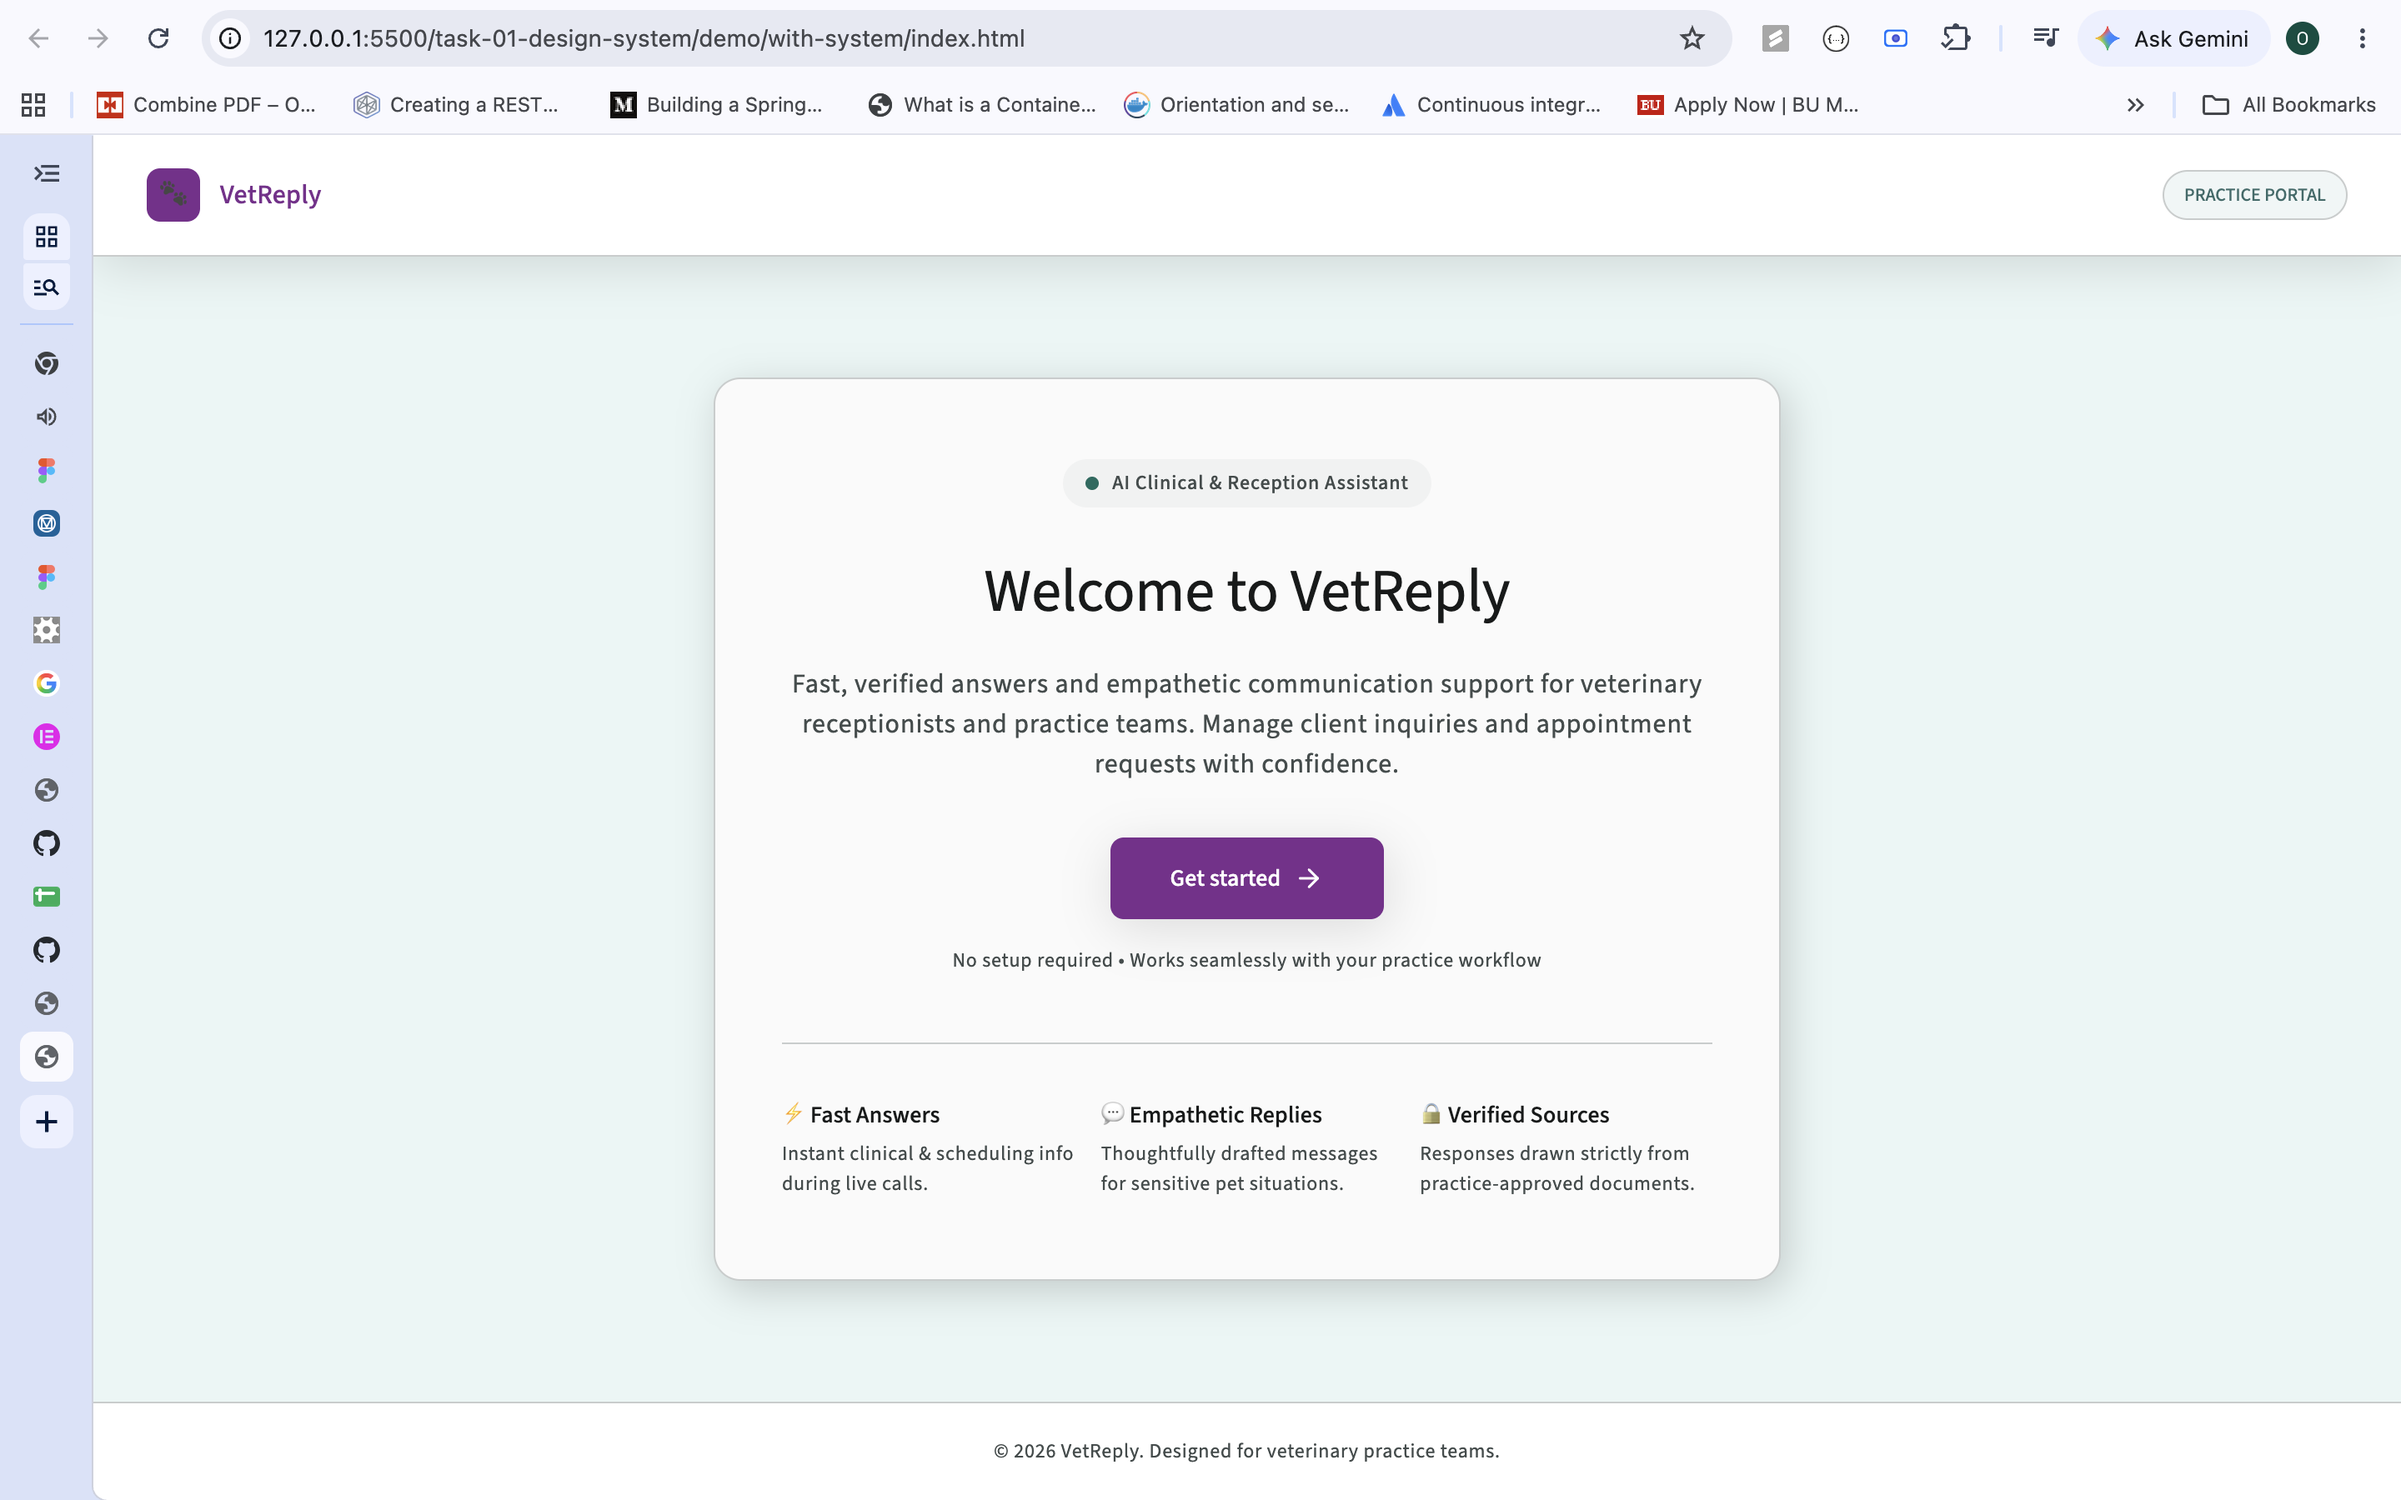
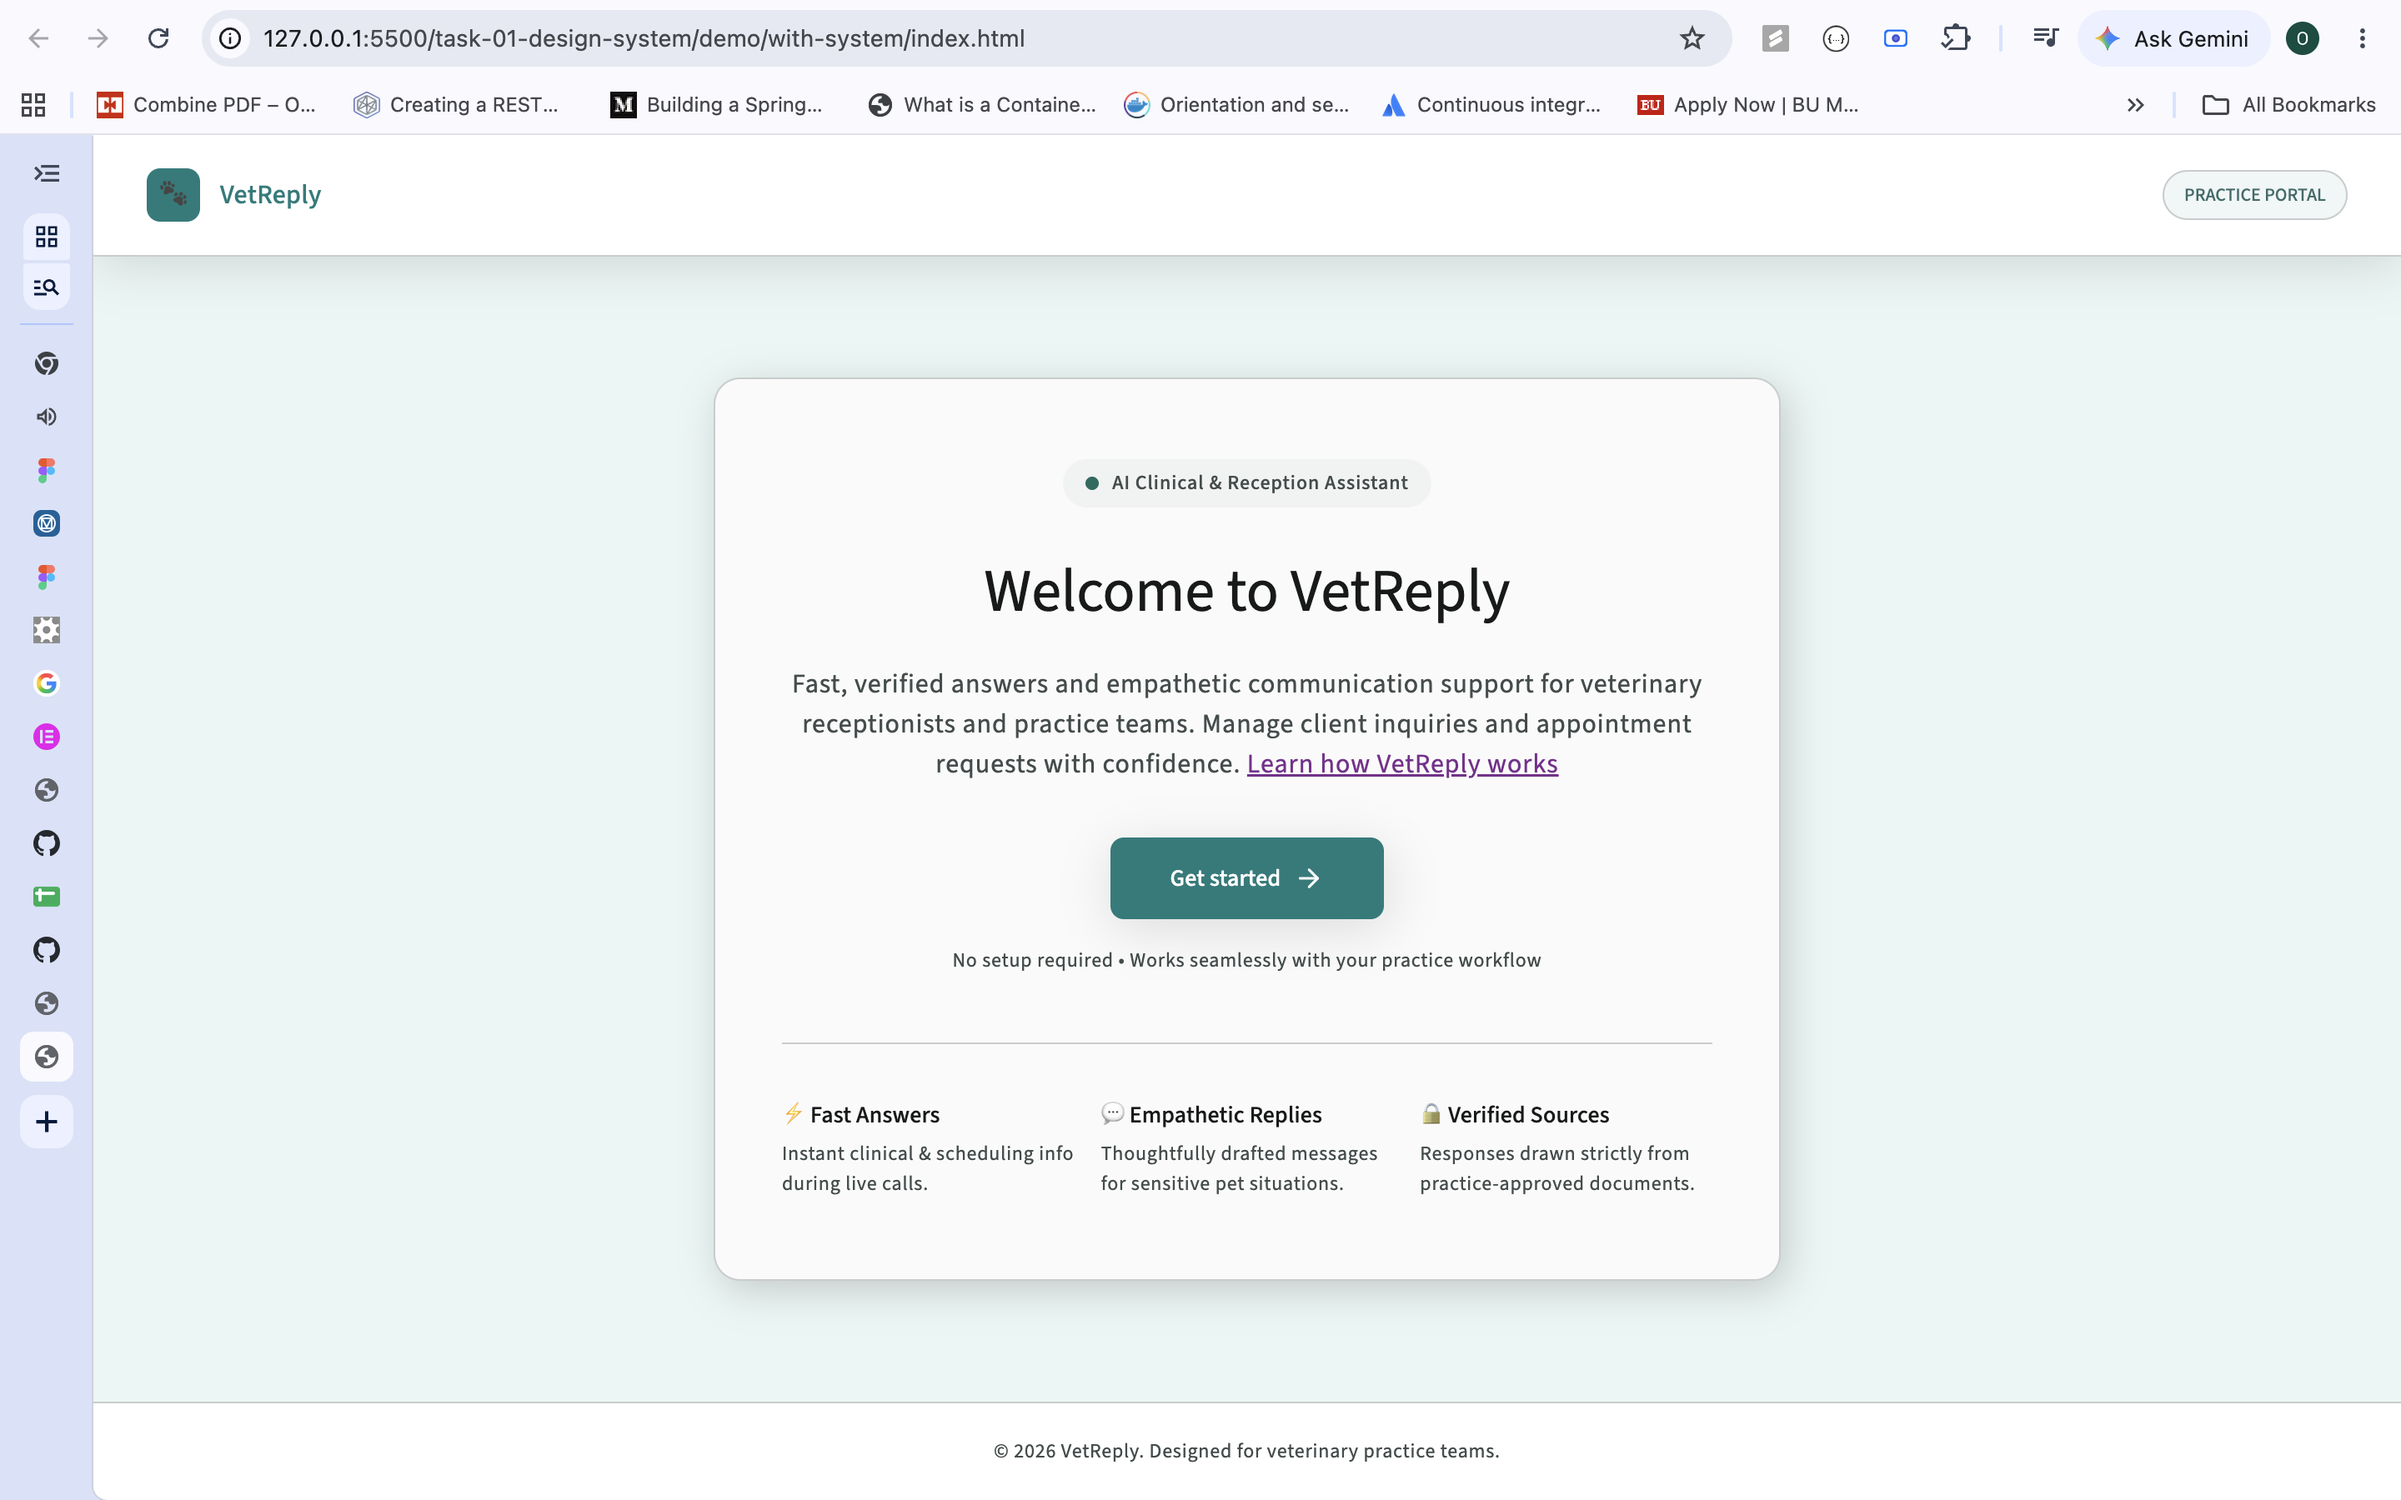
Add new evidence and update Readme.md

Changed region(s): [[0.4375, 0.56, 0.5938, 0.6222], [0.4062, 0.4978, 0.6562, 0.5289], [0.0625, 0.0933, 0.125, 0.1556]]

diff --git a/task-01-design-system/README.md b/task-01-design-system/README.md
@@ -33,6 +33,16 @@ The first export (evidence/05-tokens-incomplete.json)had typography and effects 
 weren't included. I noticed when I searched the file for 'primary' and
 got no results.
 
+### The deliberate regression
+I copied the brand teal directly into the primary role instead of
+referencing the palette, then changed the brand colour at the source.
+The link, which still referenced the palette, turned purple, but the
+button stayed teal because its role held a copied value with no link
+back to the source. Nothing looked wrong until the brand changed, which
+is why copied hex values are dangerous: they hide until a rebrand, then
+leave the interface inconsistent. See
+evidence/11-broken-referencing.png and evidence/12-git-log-branch-unmerged.txt.
+
 
 ## Evidence
 
